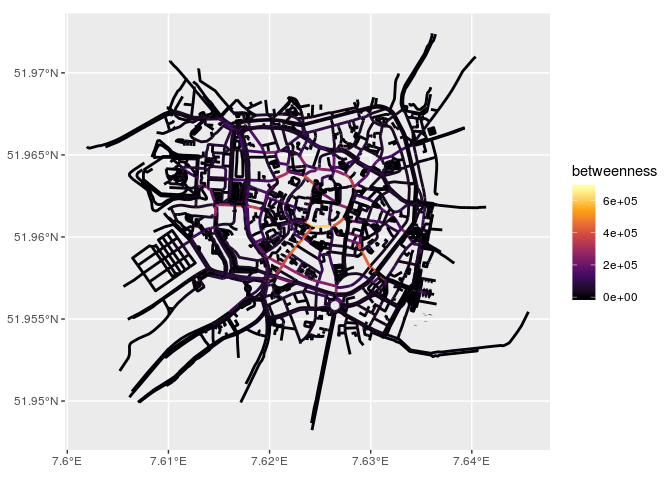
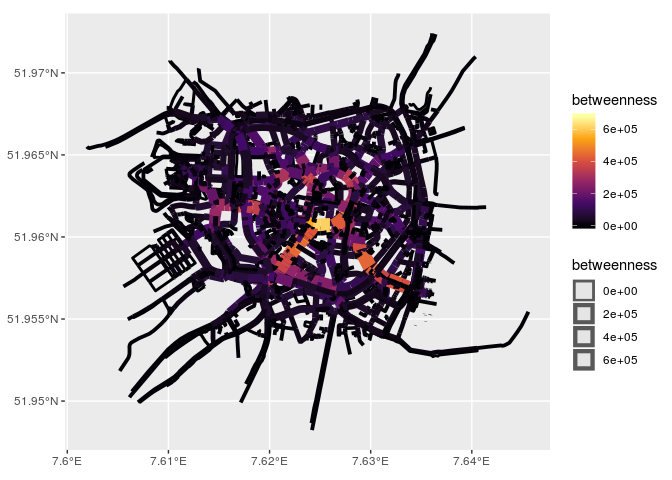
Knit + improve grass section

diff --git a/blogpost.md b/blogpost.md
@@ -43,18 +43,17 @@ packages for graph representation and analysis have been developed,
 notably [tidygraph](https://github.com/thomasp85/tidygraph), which is
 based on [igraph](https://igraph.org/).
 
-Both sf and tidygraph support the the `tibble` class and the broader
-‘tidy’ approach to data science, which involves data processing
-pipelines, type stability and a convention of representing everything as
-a data frame (well a `tibble`, which is a data frame with user friendly
-default settings). In sf, this means storing spatial vector data as
-objects of class `sf`, which are essentially the same as a regular data
-frame (or tibble), but with an additional ‘sticky’ list column
-containing a geometry for each feature (row), and attributes such as
-bounding box and CRS. Tidygraph stores networks in objects of class
-`tbl_graph`. A `tbl_graph` is an `igraph` object, but enables the user
-to manipulate both the edges and nodes elements as if they were data
-frames also.
+Both sf and tidygraph support the `tibble` class and the broader ‘tidy’
+approach to data science, which involves data processing pipelines, type
+stability and a convention of representing everything as a data frame
+(well a `tibble`, which is a data frame with user friendly default
+settings). In sf, this means storing spatial vector data as objects of
+class `sf`, which are essentially the same as a regular data frame (or
+tibble), but with an additional ‘sticky’ list column containing a
+geometry for each feature (row), and attributes such as bounding box and
+CRS. Tidygraph stores networks in objects of class `tbl_graph`. A
+`tbl_graph` is an `igraph` object, but enables the user to manipulate
+both the edges and nodes elements as if they were data frames also.
 
 Both sf and tidygraph are relatively new packages (first released on
 CRAN in 2016 and 2017, respectively). It is unsurprising, therefore,
@@ -153,7 +152,7 @@ muenster_center <- muenster$osm_lines %>%
 muenster_center
 ```
 
-    ## Simple feature collection with 2194 features and 1 field
+    ## Simple feature collection with 2193 features and 1 field
     ## geometry type:  LINESTRING
     ## dimension:      XY
     ## bbox:           xmin: 7.601942 ymin: 51.94823 xmax: 7.645597 ymax: 51.97241
@@ -198,7 +197,11 @@ GIS installed on your computer. For an in depth description of combining
 R with open source GIS software, see
 [Chapter 9](https://geocompr.robinlovelace.net/gis.html) of
 Geocomputation with R. Take into account that the linking process may
-take up some time, especially on Windows operating systems.
+take up some time, especially on Windows operating systems. Also, note
+that there have been some large changes recently to the `rgrass7`
+package, which enabled a better integration with `sf`. However, it also
+means that the code below will not work when using an older version of
+`rgrass7`, so make sure to update if needed.
 
 Here, we will clean the network topology by breaking lines at
 intersections and also breaking lines that form a collapsed loop. This
@@ -230,9 +233,7 @@ execGRASS(
 
 # Read back into R
 use_sf()
-muenster_center <- readVECT('muenster_cleaned') %>% 
-  st_as_sf() %>%
-  st_cast('LINESTRING') %>%
+muenster_center <- readVECT('muenster_cleaned') %>%
   rename(geometry = geom) %>%
   select(-cat)
 ```
@@ -241,7 +242,7 @@ muenster_center <- readVECT('muenster_cleaned') %>%
 muenster_center
 ```
 
-    ## Simple feature collection with 4680 features and 1 field
+    ## Simple feature collection with 4681 features and 1 field
     ## geometry type:  LINESTRING
     ## dimension:      XY
     ## bbox:           xmin: 7.601942 ymin: 51.94823 xmax: 7.645597 ymax: 51.97241
@@ -263,8 +264,8 @@ muenster_center
 ### Step 2: Give each edge a unique index
 
 The edges of the network, are simply the linestrings in the data. Each
-of them gets a unique index, which can be later be related to their
-start and end node.
+of them gets a unique index, which can later be related to their start
+and end node.
 
 ``` r
 edges <- muenster_center %>%
@@ -273,7 +274,7 @@ edges <- muenster_center %>%
 edges
 ```
 
-    ## Simple feature collection with 4680 features and 2 fields
+    ## Simple feature collection with 4681 features and 2 fields
     ## geometry type:  LINESTRING
     ## dimension:      XY
     ## bbox:           xmin: 7.601942 ymin: 51.94823 xmax: 7.645597 ymax: 51.97241
@@ -297,8 +298,8 @@ edges
 The nodes of the network, are the start and end points of the edges. The
 locations of these points can be derived by using the `st_coordinates`
 function in sf. When given a set of linestrings, this function breaks
-down each of them into the points they are build up. It returns a matrix
-with the X and Y coordinates of those points, and additionally an
+down each of them into the points they are built up from. It returns a
+matrix with the X and Y coordinates of those points, and additionally an
 integer indicator L1 specifying to which line a point belongs. These
 integer indicators correspond to the edge indices defined in step 1.
 That is, if we convert the matrix into a `data.frame` or `tibble`, group
@@ -318,7 +319,7 @@ nodes <- edges %>%
 nodes
 ```
 
-    ## # A tibble: 9,360 x 4
+    ## # A tibble: 9,362 x 4
     ##        X     Y edgeID start_end
     ##    <dbl> <dbl>  <dbl> <chr>    
     ##  1  7.63  52.0      1 start    
@@ -331,7 +332,7 @@ nodes
     ##  8  7.63  52.0      4 end      
     ##  9  7.63  52.0      5 start    
     ## 10  7.63  52.0      5 end      
-    ## # … with 9,350 more rows
+    ## # … with 9,352 more rows
 
 ### Step 4: Give each node a unique index
 
@@ -354,7 +355,7 @@ nodes <- nodes %>%
 nodes
 ```
 
-    ## # A tibble: 9,360 x 5
+    ## # A tibble: 9,362 x 5
     ##        X     Y edgeID start_end nodeID
     ##    <dbl> <dbl>  <dbl> <chr>      <int>
     ##  1  7.63  52.0      1 start          1
@@ -367,14 +368,14 @@ nodes
     ##  8  7.63  52.0      4 end            8
     ##  9  7.63  52.0      5 start          9
     ## 10  7.63  52.0      5 end           10
-    ## # … with 9,350 more rows
+    ## # … with 9,352 more rows
 
 ### Step 5: Combine the node indices with the edges
 
-Now each of the start and endpoints from step has been assigned a node
-ID in step 4, we can add the node indices to the edges. In other words,
-we can specify for each edge, in which node it starts, and in which node
-it ends.
+Now each of the start and endpoints have been assigned a node ID in step
+4, so that we can add the node indices to the edges. In other words, we
+can specify for each edge, in which node it starts, and in which node it
+ends.
 
 ``` r
 source_nodes <- nodes %>%
@@ -391,7 +392,7 @@ edges = edges %>%
 edges
 ```
 
-    ## Simple feature collection with 4680 features and 4 fields
+    ## Simple feature collection with 4681 features and 4 fields
     ## geometry type:  LINESTRING
     ## dimension:      XY
     ## bbox:           xmin: 7.601942 ymin: 51.94823 xmax: 7.645597 ymax: 51.97241
@@ -475,7 +476,7 @@ graph = tbl_graph(nodes = nodes, edges = as_tibble(edges), directed = FALSE)
 graph
 ```
 
-    ## # A tbl_graph: 3321 nodes and 4680 edges
+    ## # A tbl_graph: 3321 nodes and 4681 edges
     ## #
     ## # An undirected multigraph with 33 components
     ## #
@@ -490,17 +491,17 @@ graph
     ## 6      6  (7.629308 51.9673)
     ## # … with 3,315 more rows
     ## #
-    ## # Edge Data: 4,680 x 5
+    ## # Edge Data: 4,681 x 5
     ##    from    to highway                                       geometry edgeID
     ##   <int> <int> <fct>                                 <LINESTRING [°]>  <int>
     ## 1     1     2 service           (7.63275 51.9603, 7.631843 51.96061)      1
     ## 2     3     4 seconda…        (7.614156 51.96724, 7.613797 51.96723)      2
     ## 3     5     6 footway  (7.629304 51.96712, 7.629304 51.96717, 7.629…      3
-    ## # … with 4,677 more rows
+    ## # … with 4,678 more rows
 
 ### Step 8: Putting it together
 
-For make the approach more convenient, we can combine all steps above
+To make the approach more convenient, we can combine all steps above
 into a single function, that takes a cleaned `sf` object with
 `LINESTRING` geometries as input, and returns a spatial `tbl_graph`.
 
@@ -546,7 +547,7 @@ sf_to_tidygraph = function(x, directed = TRUE) {
 sf_to_tidygraph(muenster_center, directed = FALSE)
 ```
 
-    ## # A tbl_graph: 3321 nodes and 4680 edges
+    ## # A tbl_graph: 3321 nodes and 4681 edges
     ## #
     ## # An undirected multigraph with 33 components
     ## #
@@ -561,13 +562,13 @@ sf_to_tidygraph(muenster_center, directed = FALSE)
     ## 6      6  (7.629308 51.9673)
     ## # … with 3,315 more rows
     ## #
-    ## # Edge Data: 4,680 x 5
+    ## # Edge Data: 4,681 x 5
     ##    from    to highway                                       geometry edgeID
     ##   <int> <int> <fct>                                 <LINESTRING [°]>  <int>
     ## 1     1     2 service           (7.63275 51.9603, 7.631843 51.96061)      1
     ## 2     3     4 seconda…        (7.614156 51.96724, 7.613797 51.96723)      2
     ## 3     5     6 footway  (7.629304 51.96712, 7.629304 51.96717, 7.629…      3
-    ## # … with 4,677 more rows
+    ## # … with 4,678 more rows
 
 ## Combining the best of both worlds
 
@@ -590,11 +591,11 @@ graph <- graph %>%
 graph
 ```
 
-    ## # A tbl_graph: 3321 nodes and 4680 edges
+    ## # A tbl_graph: 3321 nodes and 4681 edges
     ## #
     ## # An undirected multigraph with 33 components
     ## #
-    ## # Edge Data: 4,680 x 6 (active)
+    ## # Edge Data: 4,681 x 6 (active)
     ##    from    to highway                              geometry edgeID   length
     ##   <int> <int> <fct>                        <LINESTRING [°]>  <int>      [m]
     ## 1     1     2 service   (7.63275 51.9603, 7.631843 51.9606…      1 71.2778…
@@ -603,7 +604,7 @@ graph
     ## 4     7     8 steps     (7.627696 51.96534, 7.62765 51.965…      4  3.2926…
     ## 5     9    10 unclassi… (7.631499 51.95741, 7.63155 51.957…      5  4.2437…
     ## 6    11    12 service   (7.633612 51.96548, 7.633578 51.96…      6  7.4291…
-    ## # … with 4,674 more rows
+    ## # … with 4,675 more rows
     ## #
     ## # Node Data: 3,321 x 2
     ##   nodeID            geometry
@@ -626,9 +627,6 @@ graph %>%
   summarise(length = sum(length))
 ```
 
-    ## Warning: Factor `highway` contains implicit NA, consider using
-    ## `forcats::fct_explicit_na`
-
     ## Simple feature collection with 17 features and 2 fields
     ## geometry type:  MULTILINESTRING
     ## dimension:      XY
@@ -640,9 +638,9 @@ graph %>%
     ##  * <fct>              [m]                             <MULTILINESTRING [°]>
     ##  1 corridor        9.377… ((7.620506 51.96262, 7.620542 51.96266), (7.6205…
     ##  2 cycleway    22807.075… ((7.619683 51.95395, 7.619641 51.95378, 7.619559…
-    ##  3 footway     42923.233… ((7.640529 51.95325, 7.640528 51.95323), (7.6405…
+    ##  3 footway     42923.310… ((7.640529 51.95325, 7.640528 51.95323), (7.6405…
     ##  4 path         7642.403… ((7.624007 51.95379, 7.624223 51.95378, 7.624253…
-    ##  5 pedestrian  11439.762… ((7.620362 51.95471, 7.620477 51.9547), (7.62012…
+    ##  5 pedestrian  11438.081… ((7.620362 51.95471, 7.620477 51.9547), (7.62012…
     ##  6 primary      3539.164… ((7.625556 51.95272, 7.625594 51.95284, 7.625714…
     ##  7 primary_li…   184.385… ((7.617285 51.96609, 7.617286 51.96624, 7.617295…
     ##  8 residential 22712.272… ((7.614509 51.95351, 7.614554 51.95346), (7.6326…
@@ -716,26 +714,26 @@ graph <- graph %>%
 graph
 ```
 
-    ## # A tbl_graph: 3321 nodes and 4680 edges
+    ## # A tbl_graph: 3321 nodes and 4681 edges
     ## #
     ## # An undirected multigraph with 33 components
     ## #
-    ## # Edge Data: 4,680 x 7 (active)
+    ## # Edge Data: 4,681 x 7 (active)
     ##    from    to highway                  geometry edgeID   length betweenness
     ##   <int> <int> <fct>            <LINESTRING [°]>  <int>      [m]       <dbl>
-    ## 1     1     2 service (7.63275 51.9603, 7.6318…      1 71.2778…       95167
+    ## 1     1     2 service (7.63275 51.9603, 7.6318…      1 71.2778…       95176
     ## 2     3     4 second… (7.614156 51.96724, 7.61…      2 24.7146…       33254
-    ## 3     5     6 footway (7.629304 51.96712, 7.62…      3 20.0122…       21928
-    ## 4     7     8 steps   (7.627696 51.96534, 7.62…      4  3.2926…       82719
-    ## 5     9    10 unclas… (7.631499 51.95741, 7.63…      5  4.2437…      516313
-    ## 6    11    12 service (7.633612 51.96548, 7.63…      6  7.4291…       17044
-    ## # … with 4,674 more rows
+    ## 3     5     6 footway (7.629304 51.96712, 7.62…      3 20.0122…       21905
+    ## 4     7     8 steps   (7.627696 51.96534, 7.62…      4  3.2926…       82674
+    ## 5     9    10 unclas… (7.631499 51.95741, 7.63…      5  4.2437…      518172
+    ## 6    11    12 service (7.633612 51.96548, 7.63…      6  7.4291…       17053
+    ## # … with 4,675 more rows
     ## #
     ## # Node Data: 3,321 x 4
     ##   nodeID            geometry degree betweenness
     ##    <int>         <POINT [°]>  <dbl>       <dbl>
-    ## 1      1   (7.63275 51.9603)      3      122003
-    ## 2      2 (7.631843 51.96061)      3       99757
+    ## 1      1   (7.63275 51.9603)      3      122014
+    ## 2      2 (7.631843 51.96061)      3       99760
     ## 3      3 (7.614156 51.96724)      3       33188
     ## # … with 3,318 more rows
 
@@ -750,7 +748,7 @@ ggplot() +
 
 ``` r
 ggplot() +
-  geom_sf(data = graph %>% activate(edges) %>% as_tibble() %>% st_as_sf(), aes(col = betweenness), lwd = 1) +
+  geom_sf(data = graph %>% activate(edges) %>% as_tibble() %>% st_as_sf(), aes(col = betweenness, lwd = betweenness)) +
   scale_colour_viridis_c(option = 'inferno')
 ```
 
@@ -823,30 +821,30 @@ path$vpath
 ```
 
     ## [[1]]
-    ## + 81/3321 vertices, from 1797457:
-    ##  [1] 3285 2315 1148 2411 2891 2890 1980 1979 1902 2408  448 3151 2840 1869
-    ## [15] 2072  152 1510 3013 3012 2948 2393 1203 1720 1199 3085 1196 1192  552
-    ## [29] 1578 1187 1184 2126 1178 2127   59 1926  920 3162 2136 1903 1904  330
-    ## [43] 1905   26   27 1962 1456 1457 1458 1459 1689 1912 1464   24   25 3073
-    ## [57]  753  756 1075 1477 1478 2691 2690 3061 1660  830 1657 1656 2848   11
-    ## [71] 1641 1093 1094   99 1236  101  100  275 3154 3163 3305
+    ## + 81/3321 vertices, from 9dfd9b2:
+    ##  [1] 3285 2314 1146 2410 2893 2892 1979 1978 1901 2407  448 3151 2847 1868
+    ## [15] 2070  152 1508 3014 3013 2951 2392 1201 1719 1197 3085 1194 1190  552
+    ## [29] 1577 1185 1182 2124 1176 2125   59 1925  920 3162 2134 1902 1903  330
+    ## [43] 1904   26   27 1961 1454 1455 1456 1457 1688 1911 1462   24   25 3073
+    ## [57]  753  756 1073 1475 1476 2693 2692 3061 1659  830 1656 1655 2854   11
+    ## [71] 1640 1091 1092   99 1234  101  100  275 3154 3163 3305
 
 ``` r
 path$epath
 ```
 
     ## [[1]]
-    ## + 80/4680 edges from 1797457:
-    ##  [1] 2315--3285 1148--2315 1148--2411 2411--2891 2890--2891 1980--2890
-    ##  [7] 1979--1980 1902--1979 1902--2408  448--2408  448--3151 2840--3151
-    ## [13] 1869--2840 1869--2072  152--2072  152--1510 1510--3013 3012--3013
-    ## [19] 2948--3012 2393--2948 1203--2393 1203--1720 1199--1720 1199--3085
-    ## [25] 1196--3085 1192--1196  552--1192  552--1578 1187--1578 1184--1187
-    ## [31] 1184--2126 1178--2126 1178--2127   59--2127   59--1926  920--1926
-    ## [37]  920--3162 2136--3162 1903--2136 1903--1904  330--1904  330--1905
-    ## [43]   26--1905   26--  27   27--1962 1456--1962 1456--1457 1457--1458
-    ## [49] 1458--1459 1459--1689 1689--1912 1464--1912   24--1464   24--  25
-    ## [55]   25--3073  753--3073  753-- 756  756--1075 1075--1477 1477--1478
+    ## + 80/4681 edges from 9dfd9b2:
+    ##  [1] 2314--3285 1146--2314 1146--2410 2410--2893 2892--2893 1979--2892
+    ##  [7] 1978--1979 1901--1978 1901--2407  448--2407  448--3151 2847--3151
+    ## [13] 1868--2847 1868--2070  152--2070  152--1508 1508--3014 3013--3014
+    ## [19] 2951--3013 2392--2951 1201--2392 1201--1719 1197--1719 1197--3085
+    ## [25] 1194--3085 1190--1194  552--1190  552--1577 1185--1577 1182--1185
+    ## [31] 1182--2124 1176--2124 1176--2125   59--2125   59--1925  920--1925
+    ## [37]  920--3162 2134--3162 1902--2134 1902--1903  330--1903  330--1904
+    ## [43]   26--1904   26--  27   27--1961 1454--1961 1454--1455 1455--1456
+    ## [49] 1456--1457 1457--1688 1688--1911 1462--1911   24--1462   24--  25
+    ## [55]   25--3073  753--3073  753-- 756  756--1073 1073--1475 1475--1476
     ## + ... omitted several edges
 
 ``` r
@@ -866,19 +864,19 @@ path_graph
     ## # Node Data: 81 x 4 (active)
     ##   nodeID            geometry degree betweenness
     ##    <int>         <POINT [°]>  <dbl>       <dbl>
-    ## 1     11 (7.633612 51.96548)      4      107952
-    ## 2     24  (7.62837 51.96292)      4      432242
-    ## 3     25 (7.628317 51.96308)      3      506005
-    ## 4     26 (7.626123 51.96065)      3      725053
-    ## 5     27 (7.626309 51.96067)      3      653247
-    ## 6     59 (7.623359 51.95995)      3      544664
+    ## 1     11 (7.633612 51.96548)      4      107917
+    ## 2     24  (7.62837 51.96292)      4      432434
+    ## 3     25 (7.628317 51.96308)      3      506093
+    ## 4     26 (7.626123 51.96065)      3      724992
+    ## 5     27 (7.626309 51.96067)      3      653364
+    ## 6     59 (7.623359 51.95995)      3      544089
     ## # … with 75 more rows
     ## #
     ## # Edge Data: 80 x 7
     ##    from    to highway                  geometry edgeID   length betweenness
     ##   <int> <int> <fct>            <LINESTRING [°]>  <int>      [m]       <dbl>
-    ## 1     2     3 reside… (7.62837 51.96292, 7.628…     13 18.62548      433530
-    ## 2     4     5 reside… (7.626123 51.96065, 7.62…     14 13.08964      651359
+    ## 1     2     3 reside… (7.62837 51.96292, 7.628…     13 18.62548      433722
+    ## 2     4     5 reside… (7.626123 51.96065, 7.62…     14 13.08964      651475
     ## 3     8     9 service (7.635255 51.96645, 7.63…     54 14.98778       33343
     ## # … with 77 more rows
 
